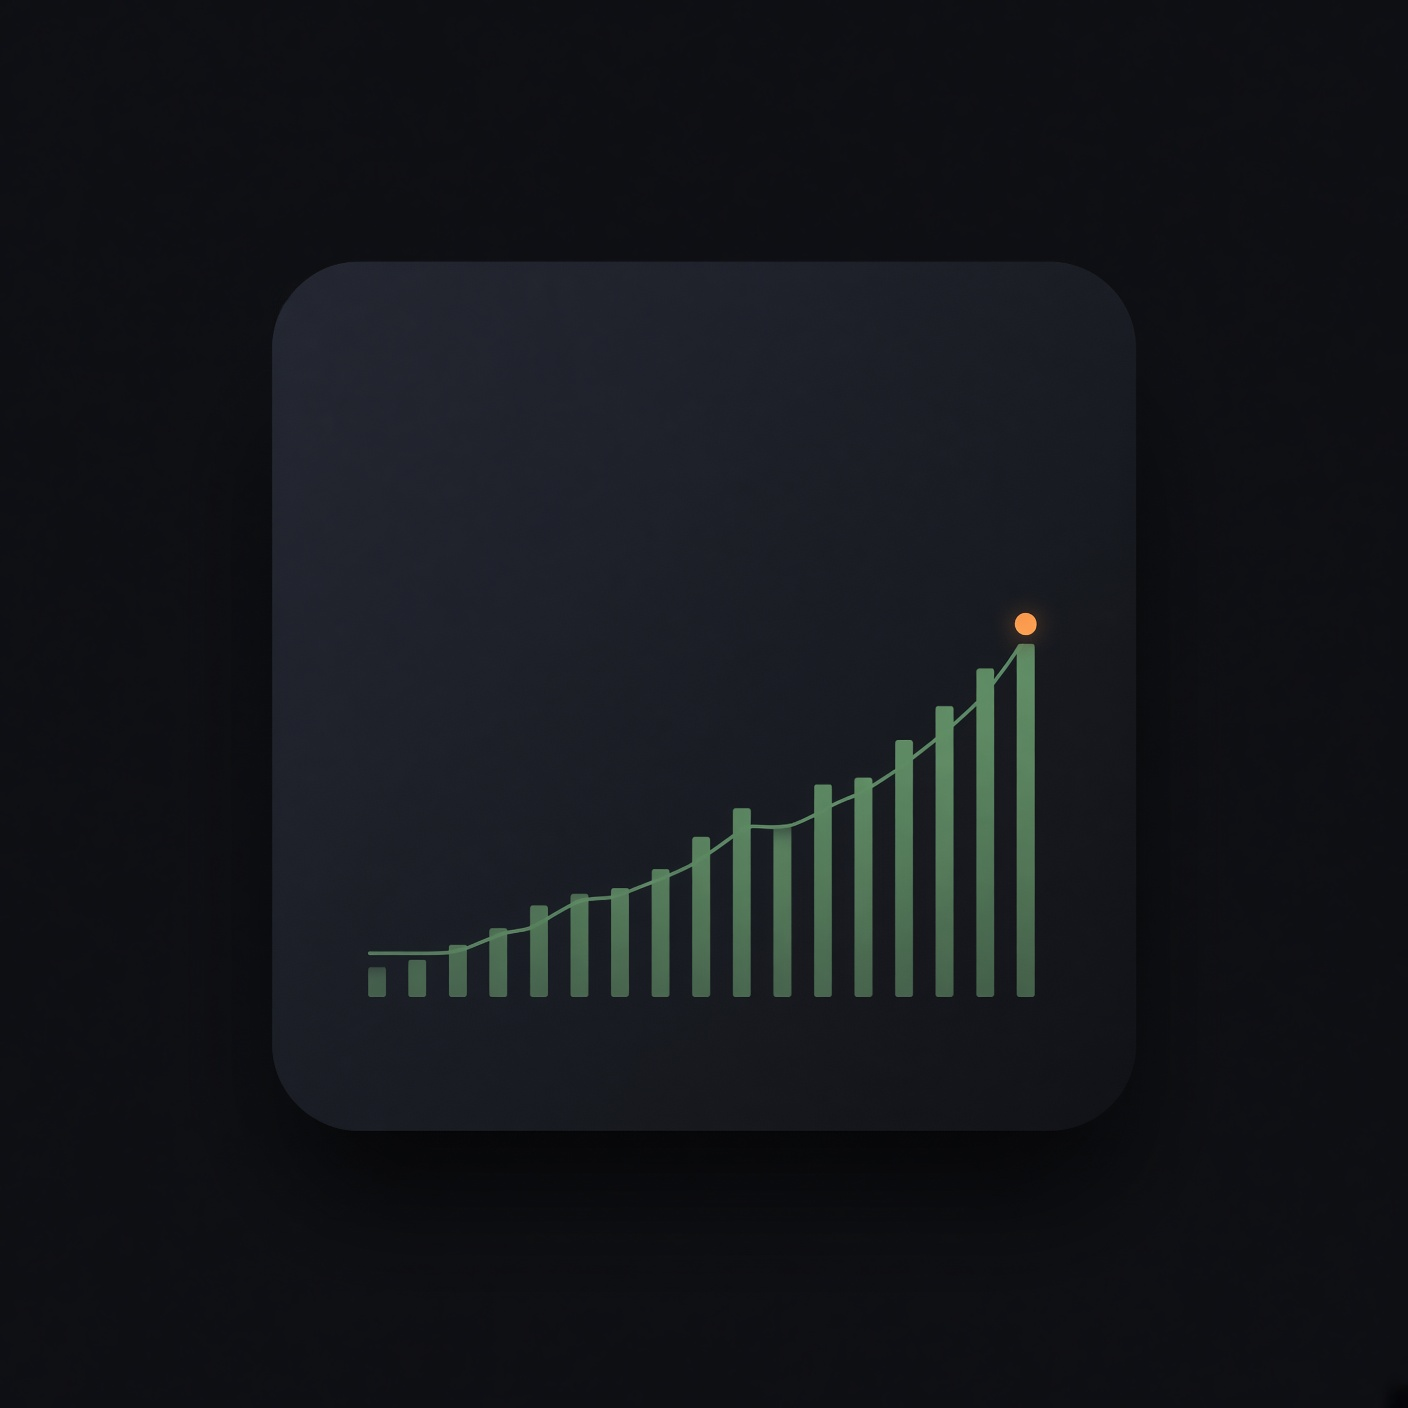
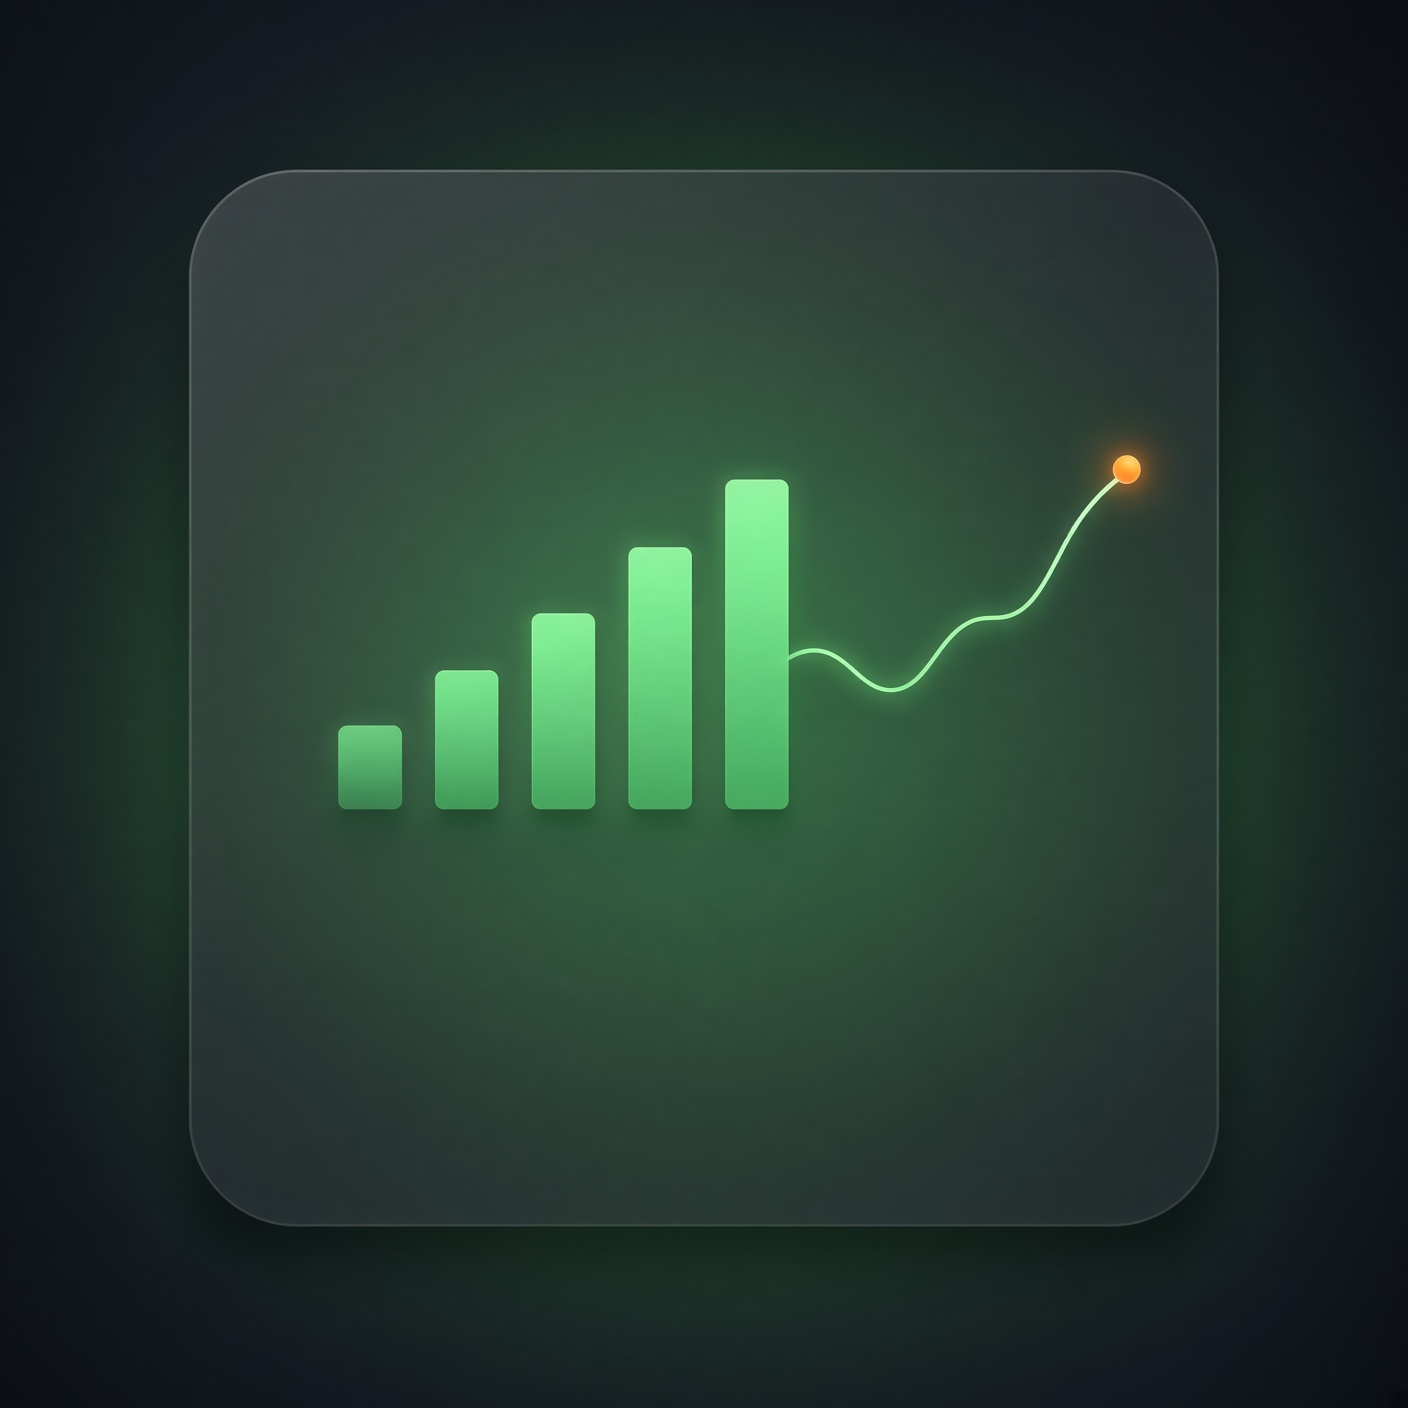
Swap brighter Imagine v2 empties into the centered stacks.
Replace the five empty PNGs in place. First-run Home uses the home illustration above the title. Leftover and dates stay clean numbers.

diff --git a/src/components/home/home-checklist.tsx b/src/components/home/home-checklist.tsx
@@ -1,8 +1,7 @@
 import Link from "next/link";
 import { Check } from "lucide-react";
 import { Button } from "@/components/ui/button";
-import { EmptyArt, StackArt } from "@/components/journey/empty-art";
-import { IMAGINE_SLOTS } from "@/lib/brand/imagine-slots";
+import { EmptyArt } from "@/components/journey/empty-art";
 import {
   HOME_CHECKLIST_NOTE,
   HOME_CHECKLIST_TITLE,
@@ -21,11 +20,7 @@ export function HomeChecklist({ items }: { items: HomeChecklistItem[] }) {
       aria-labelledby="home-checklist-title"
     >
       <div className="empty-stack">
-        {IMAGINE_SLOTS["first-run-welcome"] ? (
-          <StackArt slot="first-run-welcome" />
-        ) : (
-          <EmptyArt kind="home" />
-        )}
+        <EmptyArt kind="home" />
         <h2 id="home-checklist-title" className="empty-stack-title">
           {HOME_CHECKLIST_TITLE}
         </h2>

diff --git a/src/lib/brand/imagine-slots.ts b/src/lib/brand/imagine-slots.ts
@@ -1,7 +1,7 @@
 /**
  * Imagine files that are not the five empty PNGs.
- * first-run-welcome is the centered Home first-run illustration.
- * Hero and accent files stay on disk and are not drawn behind numbers.
+ * First-run uses empty-home in the centered stack. These stay on disk
+ * and are not drawn behind numbers or as page backgrounds.
  */
 export type ImagineSlotId =
   | "hero-budget"
